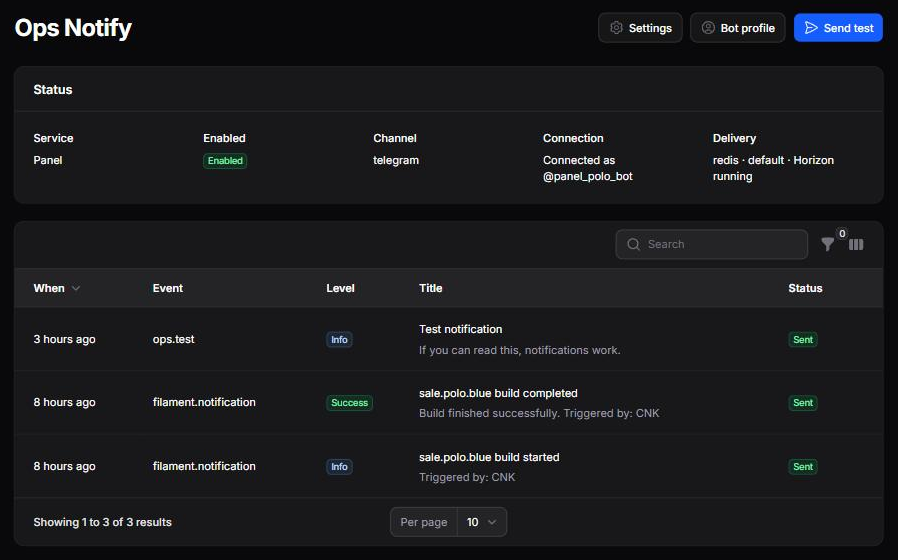
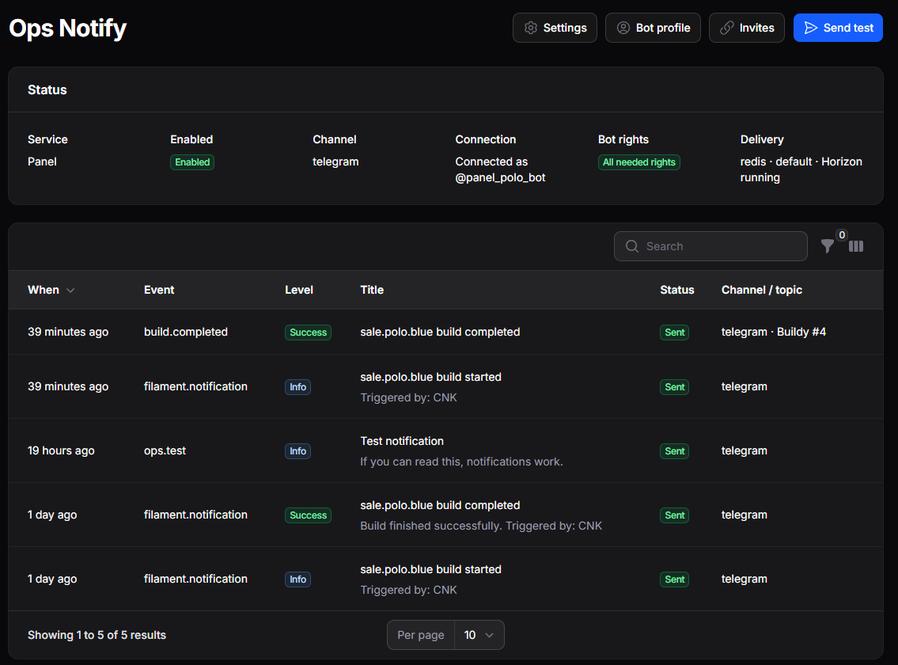
docs: refresh the screenshots for v1.3.0 (#50)
The page now shows the Bot rights column and the Channel / topic column,
and Settings the two message toggles in place of the templates section.

Claude-Session: https://claude.ai/code/session_013n5HrFaPeygMQpZWEKnWuH

diff --git a/README.md b/README.md
@@ -53,7 +53,7 @@ Horizon state), and the history of every message sent, with failed ones ready to
 Telegram or imported from it, routing rules and forwarding rules. Filled lists collapse to a
 one-line summary.
 
-<img alt="Settings slide-over with the Telegram connection and the topics list" src="https://raw.githubusercontent.com/spokospace/filament-ops-notify/main/art/screenshots/settings-light.png" width="600">
+<img alt="Settings slide-over with the Telegram connection, the two message toggles and the topics list" src="https://raw.githubusercontent.com/spokospace/filament-ops-notify/main/art/screenshots/settings-light.png" width="600">
 
 **Bot profile:** pick a preset avatar or upload your own, and set the name and descriptions
 Telegram shows.
